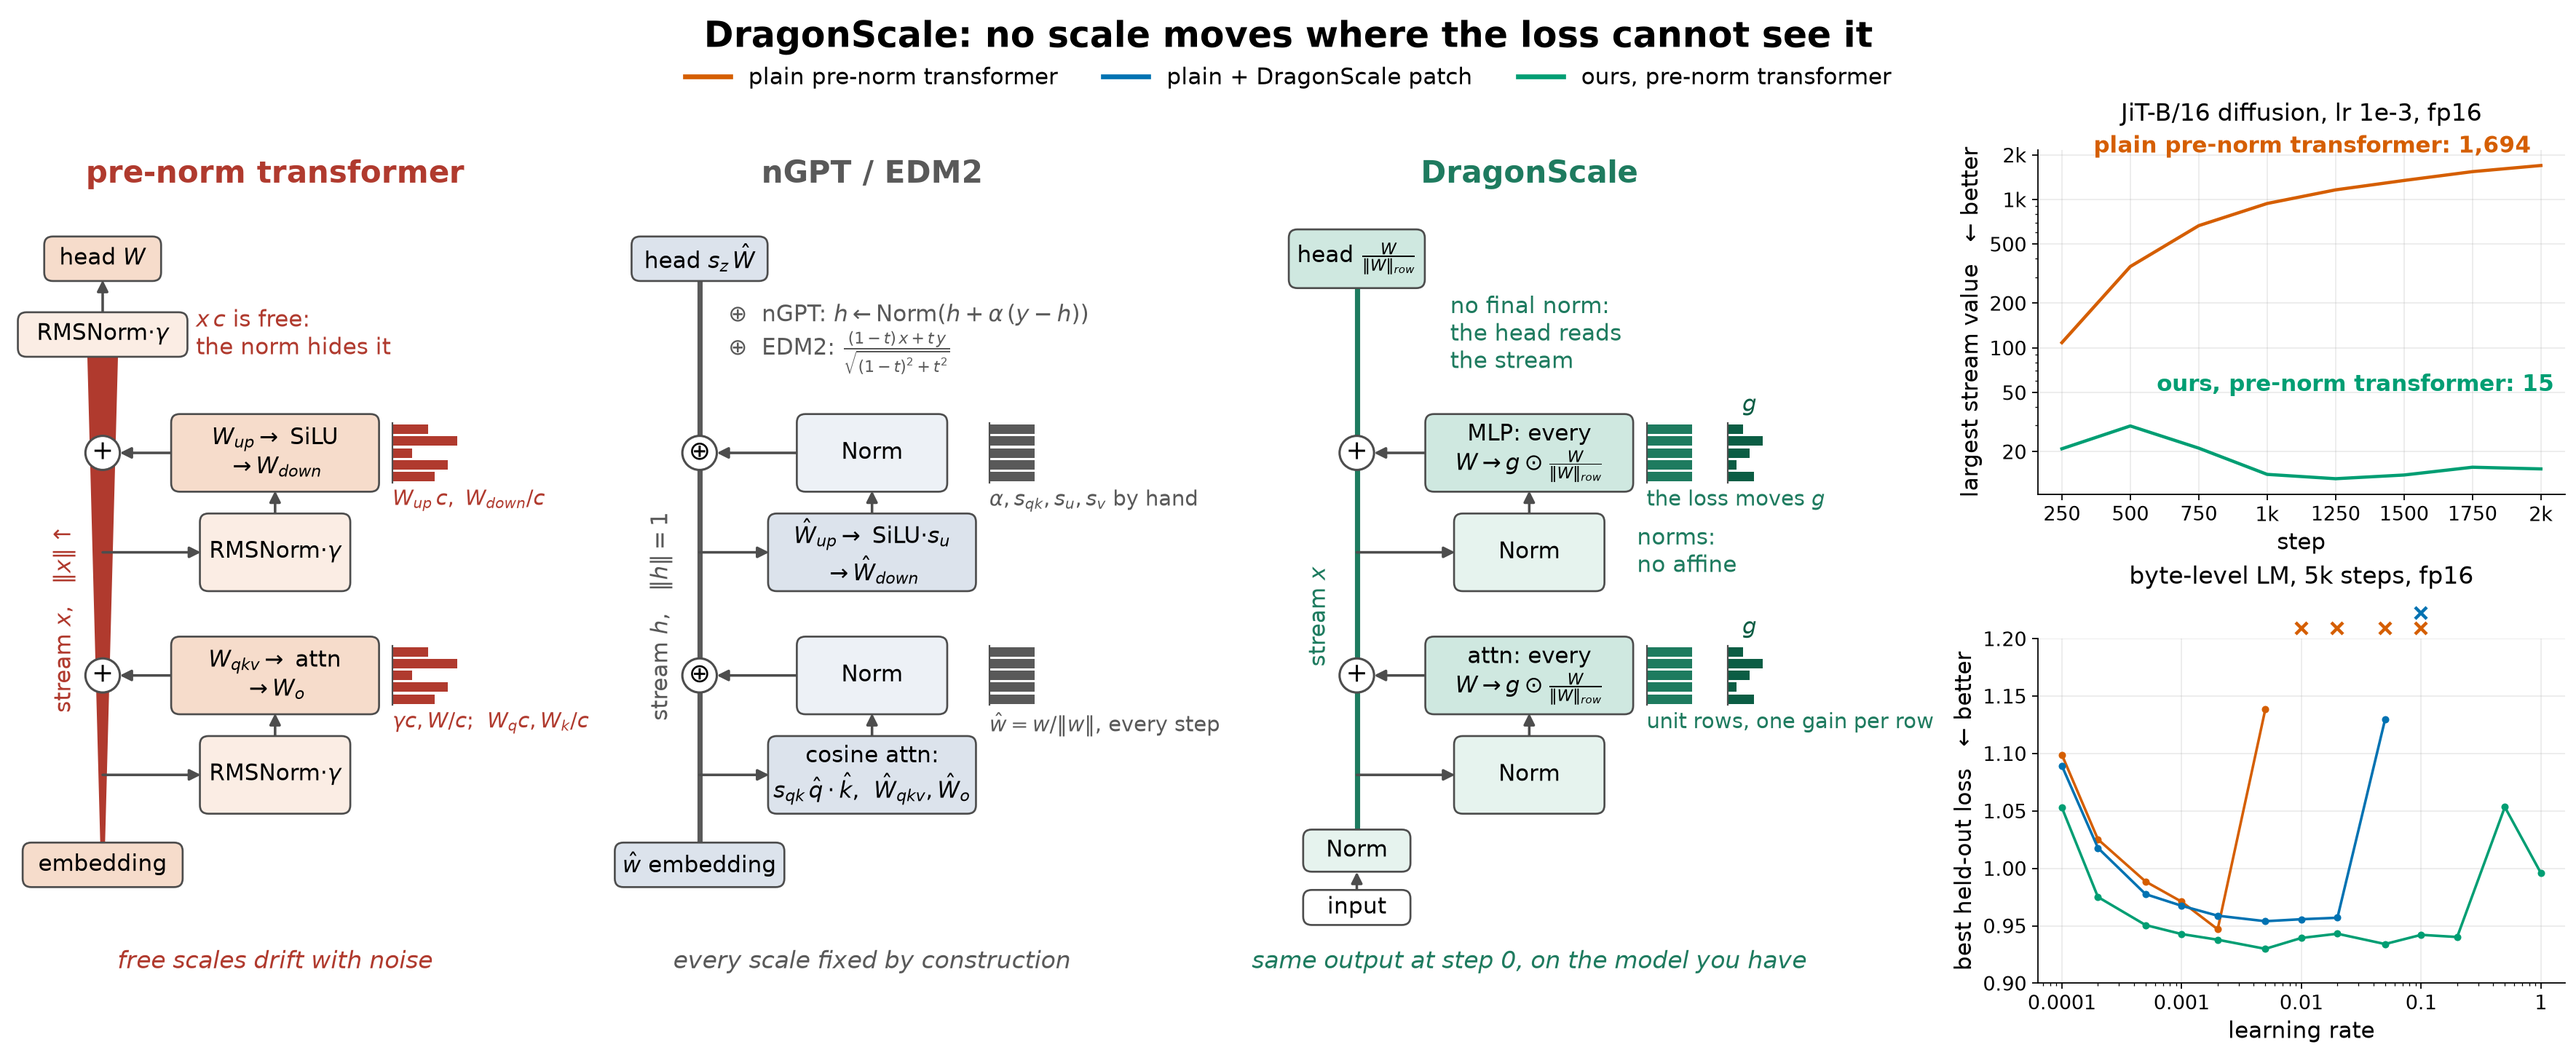
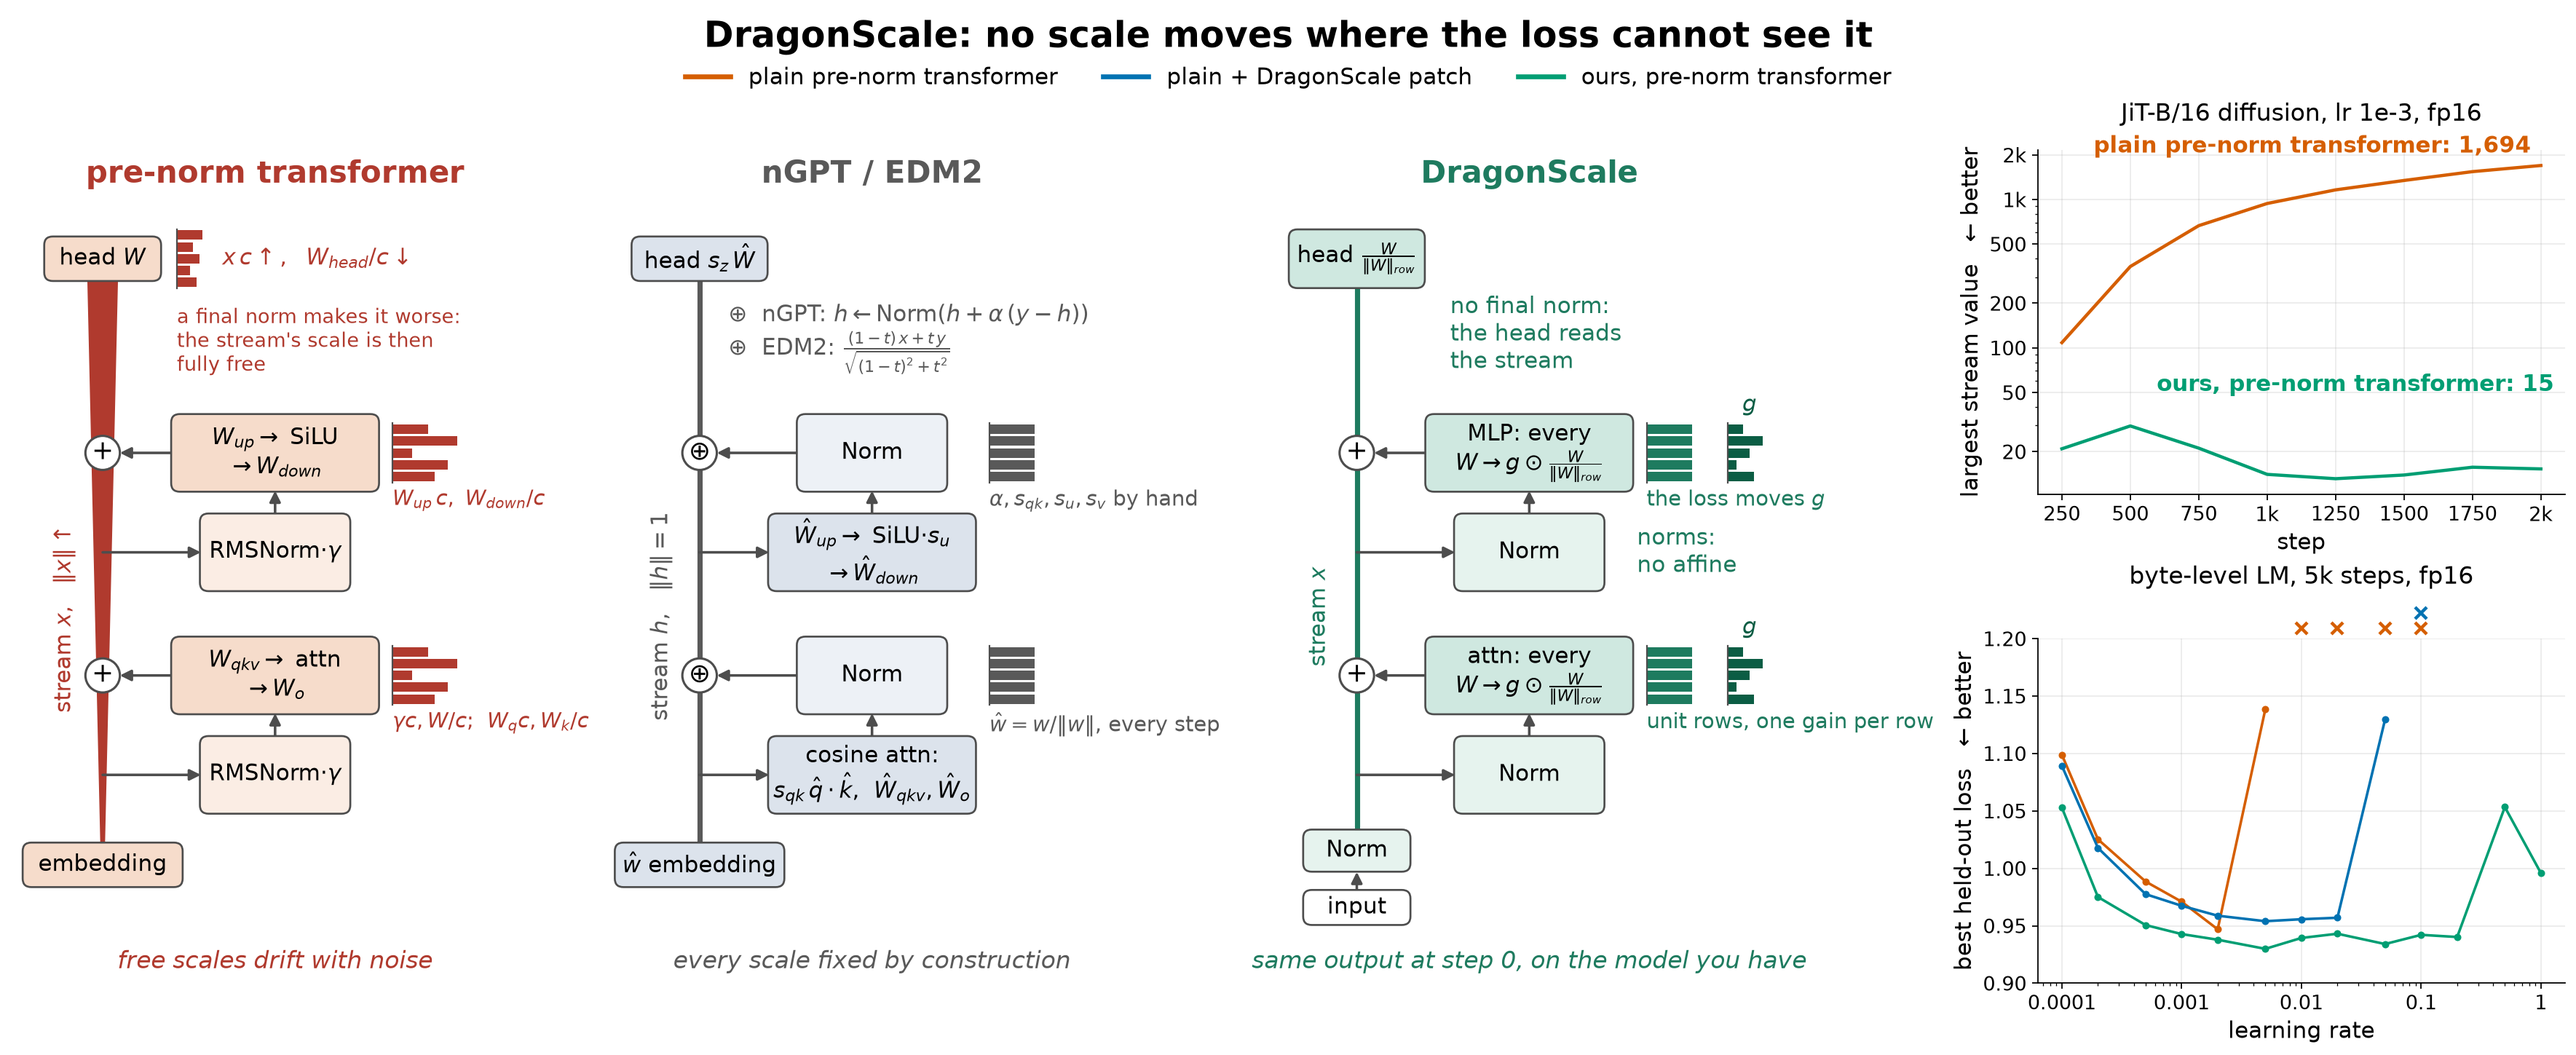
Teaser: the plain transformer without a final norm, stream and head trading scale

Changed region(s): [[0.0, 0.2174, 0.1865, 0.3416]]

diff --git a/measure/plots.py b/measure/plots.py
@@ -766,17 +766,18 @@ def _block(ax, y0, lower, upper, lower_fill, upper_fill, lower_w, upper_w, add_t
     return y0, y1
 
 
-def _rows(ax, y, lengths, color, gains=None, gain_color=None, label=None):
+def _rows(ax, y, lengths, color, gains=None, gain_color=None, label=None, x=None):
     """A weight as its rows: one bar per row, its length the row's norm; with `gains`, a gain
     column to the right."""
     n, h, w = len(lengths), 1.25, 1.35
+    x0 = GLYPH_X if x is None else x
     for i, length in enumerate(lengths):
         yi = y + h / 2 - (i + 0.5) * h / n
-        ax.add_patch(plt.Rectangle((GLYPH_X, yi - 0.4 * h / n), length * w, 0.8 * h / n, fc=color,
+        ax.add_patch(plt.Rectangle((x0, yi - 0.4 * h / n), length * w, 0.8 * h / n, fc=color,
                                    ec="none", zorder=3))  # fmt: skip
-    ax.plot([GLYPH_X, GLYPH_X], [y - h / 2, y + h / 2], color="0.3", lw=1, zorder=4)
+    ax.plot([x0, x0], [y - h / 2, y + h / 2], color="0.3", lw=1, zorder=4)
     if gains is not None:
-        gx = GLYPH_X + w + 0.35
+        gx = x0 + w + 0.35
         for i, g in enumerate(gains):
             yi = y + h / 2 - (i + 0.5) * h / n
             ax.add_patch(plt.Rectangle((gx, yi - 0.4 * h / n), g * 0.9, 0.8 * h / n,
@@ -785,7 +786,7 @@ def _rows(ax, y, lengths, color, gains=None, gain_color=None, label=None):
         ax.text(gx + 0.45, y + h / 2 + 0.25, "$g$", ha="center", fontsize=TEASER_FONT,
                 color=gain_color)  # fmt: skip
     if label:
-        ax.text(GLYPH_X, y - h / 2 - 0.15, label, ha="left", va="top", fontsize=TEASER_FONT - 1,
+        ax.text(x0, y - h / 2 - 0.15, label, ha="left", va="top", fontsize=TEASER_FONT - 1,
                 color=color)  # fmt: skip
 
 
@@ -813,6 +814,7 @@ def _stream(ax, y_from, y_to, label, color, grow=False):
 
 UNEVEN = [0.55, 1.0, 0.3, 0.85, 0.65]
 EVEN = [0.7] * 5
+SHRINKING = [0.4, 0.25, 0.35, 0.2, 0.3]
 GAINS = [0.35, 0.8, 0.5, 0.2, 0.6]
 
 
@@ -820,17 +822,18 @@ def _teaser_stock(ax) -> None:
     fill, norm = "#F6DCCB", "#FBEDE4"
     _diagram_axes(ax, "pre-norm transformer", RED, "free scales drift with noise")
     _box(ax, STREAM_X, 0.3, "embedding", fill, w=3.3, h=0.9)
-    _stream(ax, 0.75, TOP_Y - 0.45, r"stream $x$,   $\Vert x\Vert\uparrow$", RED, grow=True)
+    _stream(ax, 0.75, HEAD_Y - 0.45, r"stream $x$,   $\Vert x\Vert\uparrow$", RED, grow=True)
     _, attn = _block(ax, ATTN_Y, r"RMSNorm$\cdot\gamma$", r"$W_{qkv}\to$ attn" "\n" r"$\to W_o$", norm,
                      fill, NARROW_W, WIDE_W)  # fmt: skip
     _, mlp = _block(ax, MLP_Y, r"RMSNorm$\cdot\gamma$", r"$W_{up}\to$ SiLU" "\n" r"$\to W_{down}$",
                     norm, fill, NARROW_W, WIDE_W)  # fmt: skip
-    _box(ax, STREAM_X, TOP_Y, r"RMSNorm$\cdot\gamma$", norm, w=3.5, h=0.9)
-    _arrow(ax, (STREAM_X, TOP_Y + 0.45), (STREAM_X, HEAD_Y - 0.45))
     _box(ax, STREAM_X, HEAD_Y, r"head $W$", fill, w=2.4, h=0.9)
+    _rows(ax, HEAD_Y, SHRINKING, RED, x=3.45)
     _rows(ax, attn, UNEVEN, RED, label=r"$\gamma c,W/c$;  $W_q c,W_k/c$")
     _rows(ax, mlp, UNEVEN, RED, label=r"$W_{up}\,c,\ W_{down}/c$")
-    _note(ax, 3.85, TOP_Y, r"$x\,c$ is free:" "\n" "the norm hides it", RED)
+    _note(ax, 4.4, HEAD_Y, r"$x\,c\uparrow,\ \ W_{head}/c\downarrow$", RED)
+    _note(ax, 3.45, TOP_Y - 0.15, "a final norm makes it worse:\nthe stream's scale is then\nfully free",
+          RED, TEASER_FONT - 2)  # fmt: skip
 
 
 def _teaser_fixed(ax) -> None:
